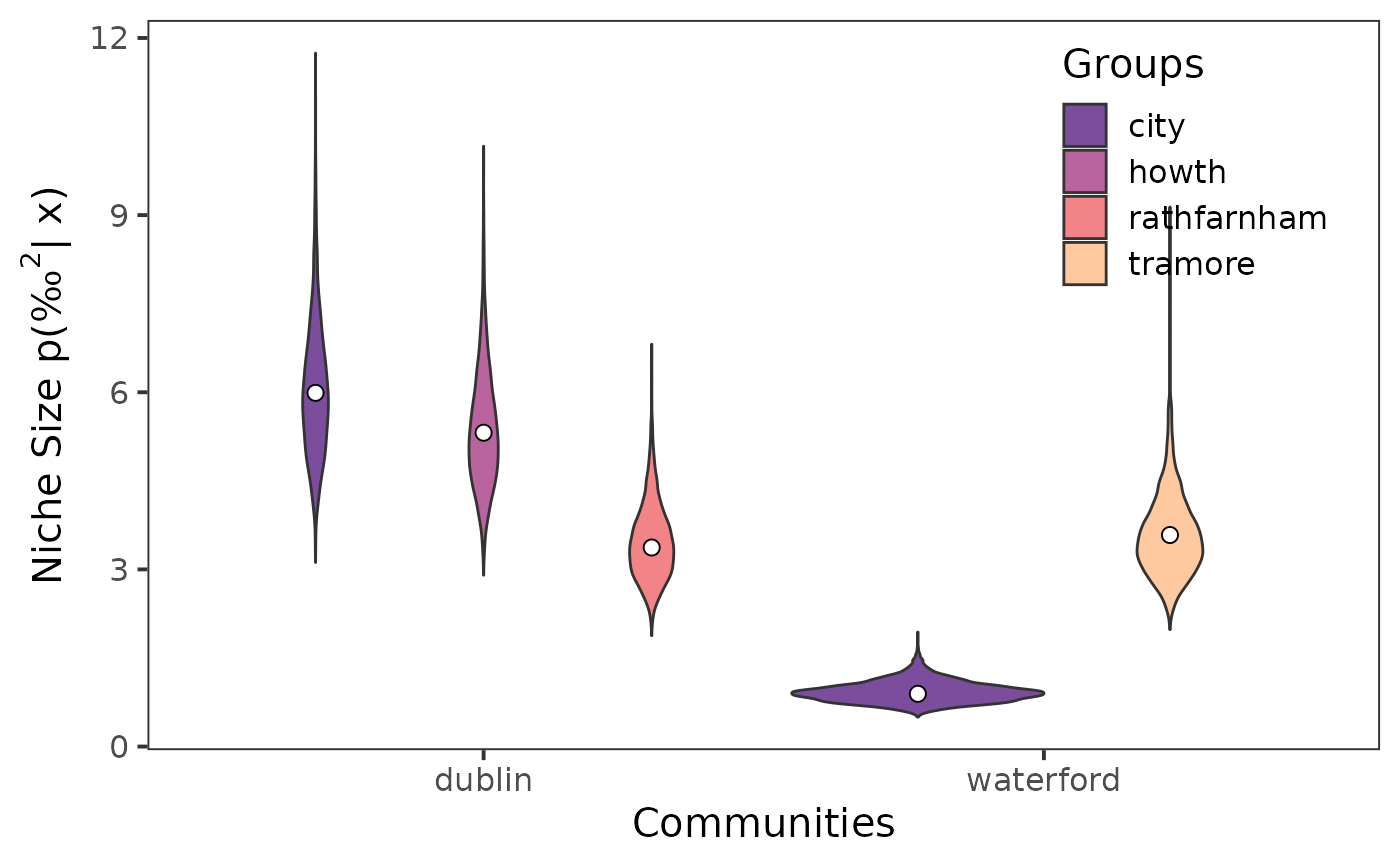
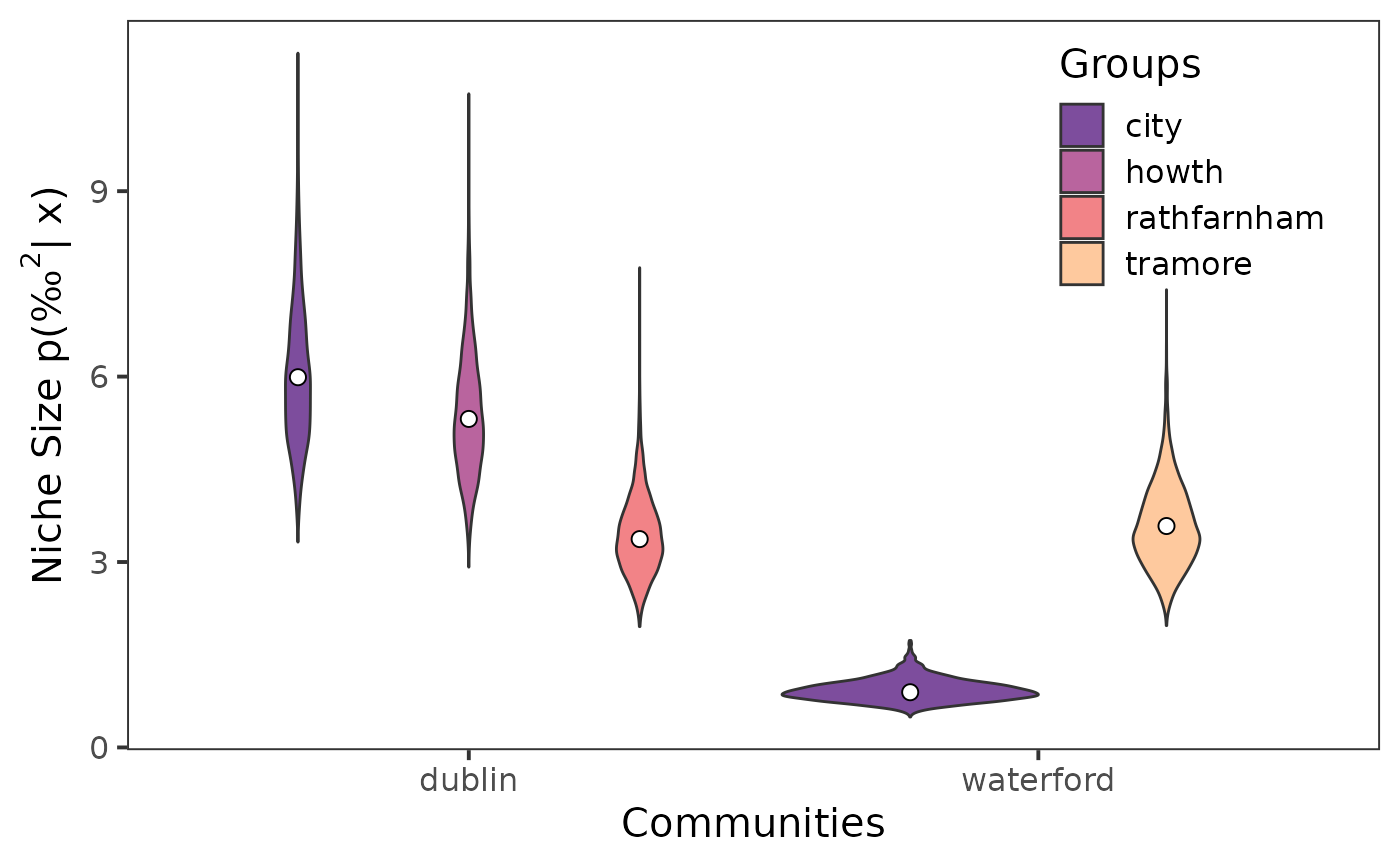
Deploying to gh-pages from @ benjaminhlina/nichetools@ac9a93646acbfcc7f18b946cbb4104046533c340 🚀

diff --git a/articles/using-nichetools-with-the-package-SIBER.html b/articles/using-nichetools-with-the-package-SIBER.html
@@ -61,7 +61,7 @@
                         <h4 data-toc-skip class="author">Benjamin L.
 Hlina</h4>
             
-            <h4 data-toc-skip class="date">Updated: 2024-08-14</h4>
+            <h4 data-toc-skip class="date">Updated: 2024-08-21</h4>
       
       <small class="dont-index">Source: <a href="https://github.com/benjaminhlina/nichetools/blob/main/vignettes/using-nichetools-with-the-package-SIBER.Rmd" class="external-link"><code>vignettes/using-nichetools-with-the-package-SIBER.Rmd</code></a></small>
       <div class="d-none name"><code>using-nichetools-with-the-package-SIBER.Rmd</code></div>
@@ -98,7 +98,7 @@ labels.</p>
 which is great when working with large data sets.</p>
 <p>We will first load the packages that were just mentioned</p>
 <div class="sourceCode" id="cb1"><pre class="downlit sourceCode r">
-<code class="sourceCode R"><span><span class="op">{</span></span>
+<code class="sourceCode R"><span>  <span class="op">{</span></span>
 <span>  <span class="kw"><a href="https://rdrr.io/r/base/library.html" class="external-link">library</a></span><span class="op">(</span><span class="va"><a href="https://easystats.github.io/bayestestR/" class="external-link">bayestestR</a></span><span class="op">)</span></span>
 <span>  <span class="kw"><a href="https://rdrr.io/r/base/library.html" class="external-link">library</a></span><span class="op">(</span><span class="va"><a href="https://dplyr.tidyverse.org" class="external-link">dplyr</a></span><span class="op">)</span></span>
 <span>  <span class="kw"><a href="https://rdrr.io/r/base/library.html" class="external-link">library</a></span><span class="op">(</span><span class="va"><a href="https://ggplot2.tidyverse.org" class="external-link">ggplot2</a></span><span class="op">)</span></span>
@@ -109,7 +109,7 @@ which is great when working with large data sets.</p>
 <span>  <span class="kw"><a href="https://rdrr.io/r/base/library.html" class="external-link">library</a></span><span class="op">(</span><span class="va">SIBER</span><span class="op">)</span></span>
 <span>  <span class="kw"><a href="https://rdrr.io/r/base/library.html" class="external-link">library</a></span><span class="op">(</span><span class="va"><a href="https://tidyr.tidyverse.org" class="external-link">tidyr</a></span><span class="op">)</span></span>
 <span>  <span class="kw"><a href="https://rdrr.io/r/base/library.html" class="external-link">library</a></span><span class="op">(</span><span class="va"><a href="https://sjmgarnier.github.io/viridis/" class="external-link">viridis</a></span><span class="op">)</span></span>
-<span><span class="op">}</span></span></code></pre></div>
+<span>  <span class="op">}</span></span></code></pre></div>
 <p>For the purpose of the vignette we will be using the
 <code>demo.siber.data.2</code> data frame that is available within
 <code>{SIBER}</code>. We will first look at the structure of this data
@@ -122,7 +122,7 @@ functions do not take <code>tibbles</code> or <code>data.tables</code>
 so you will have to convert either to <code>data.frame</code> class
 prior to running functions in <code>{SIBER}</code>.</p>
 <div class="sourceCode" id="cb2"><pre class="downlit sourceCode r">
-<code class="sourceCode R"><span><span class="fu"><a href="https://pillar.r-lib.org/reference/glimpse.html" class="external-link">glimpse</a></span><span class="op">(</span><span class="va">demo.siber.data.2</span><span class="op">)</span></span>
+<code class="sourceCode R"><span>  <span class="fu"><a href="https://pillar.r-lib.org/reference/glimpse.html" class="external-link">glimpse</a></span><span class="op">(</span><span class="va">demo.siber.data.2</span><span class="op">)</span></span>
 <span><span class="co">#&gt; Rows: 150</span></span>
 <span><span class="co">#&gt; Columns: 4</span></span>
 <span><span class="co">#&gt; $ iso1      <span style="color: #949494; font-style: italic;">&lt;dbl&gt;</span> -11.048902, -8.809360, -9.256212, -8.380952, -10.401561, -7.…</span></span>
@@ -476,43 +476,65 @@ and the total area (TA). For plotting niche size we will use
 <p>First I highly recommend reading <a href="https://esajournals.onlinelibrary.wiley.com/doi/abs/10.1890/0012-9658%282007%2988%5B42%3ACSIRPF%5D2.0.CO%3B2" class="external-link">Layman
 et al. 2007</a> to understand the six community metrics that will be
 estimating using a Bayesian framework in this section.</p>
+<p>To create maximum-likelihood estimate of Layman’s community metrics
+we first need to use <code><a href="https://rdrr.io/pkg/SIBER/man/communityMetricsML.html" class="external-link">communityMetricsML()</a></code> from
+<code>{SIBER}</code>.</p>
+<div class="sourceCode" id="cb23"><pre class="downlit sourceCode r">
+<code class="sourceCode R"><span><span class="va">community_ml</span> <span class="op">&lt;-</span> <span class="fu"><a href="https://rdrr.io/pkg/SIBER/man/communityMetricsML.html" class="external-link">communityMetricsML</a></span><span class="op">(</span><span class="va">siber_example</span><span class="op">)</span></span></code></pre></div>
+<p>Then we can extract these estimates using
+<code><a href="../reference/extract_layman.html">extract_layman()</a></code> with the <code>type</code> argument set to
+<code>"ml"</code>. The default for this argument is
+<code>"bay"</code>.</p>
+<div class="sourceCode" id="cb24"><pre class="downlit sourceCode r">
+<code class="sourceCode R"><span><span class="va">layman_ml</span> <span class="op">&lt;-</span> <span class="fu"><a href="../reference/extract_layman.html">extract_layman</a></span><span class="op">(</span><span class="va">community_ml</span>, </span>
+<span>                            type <span class="op">=</span> <span class="st">"ml"</span>, </span>
+<span>                            community_df <span class="op">=</span> <span class="va">c_names</span><span class="op">)</span></span></code></pre></div>
 <p>To create Bayesian estimates of Layman’s community metrics we first
 need to use <code><a href="https://rdrr.io/pkg/SIBER/man/extractPosteriorMeans.html" class="external-link">extractPosteriorMeans()</a></code> from
 <code>{SIBER}</code> to extract posterior estimates of means for each
 community and group.</p>
-<div class="sourceCode" id="cb23"><pre class="downlit sourceCode r">
+<div class="sourceCode" id="cb25"><pre class="downlit sourceCode r">
 <code class="sourceCode R"><span><span class="va">mu_post</span> <span class="op">&lt;-</span> <span class="fu"><a href="https://rdrr.io/pkg/SIBER/man/extractPosteriorMeans.html" class="external-link">extractPosteriorMeans</a></span><span class="op">(</span><span class="va">siber_example</span>, <span class="va">ellipses_posterior</span><span class="op">)</span></span></code></pre></div>
 <p>Next we need to use <code><a href="https://rdrr.io/pkg/SIBER/man/bayesianLayman.html" class="external-link">bayesianLayman()</a></code> from
 <code>{SIBER}</code> and use our extracted posterior means to create
 Bayesian estimates for each community metric.</p>
-<div class="sourceCode" id="cb24"><pre class="downlit sourceCode r">
+<div class="sourceCode" id="cb26"><pre class="downlit sourceCode r">
 <code class="sourceCode R"><span><span class="va">layman_b</span> <span class="op">&lt;-</span> <span class="fu"><a href="https://rdrr.io/pkg/SIBER/man/bayesianLayman.html" class="external-link">bayesianLayman</a></span><span class="op">(</span>mu.post <span class="op">=</span> <span class="va">mu_post</span><span class="op">)</span></span></code></pre></div>
 <p>Once we have created our Bayesian estimates for each community metric
 we can use <code><a href="../reference/extract_layman.html">extract_layman()</a></code> to extract these estimates. The
 function will also create the variable <code>labels</code> which will
 first assign a new name to each community metric and secondly will
 reorder these names based on how these metrics are often viewed.</p>
-<div class="sourceCode" id="cb25"><pre class="downlit sourceCode r">
-<code class="sourceCode R"><span><span class="va">layman_bc</span> <span class="op">&lt;-</span> <span class="fu"><a href="../reference/extract_layman.html">extract_layman</a></span><span class="op">(</span><span class="va">layman_b</span>, community_df <span class="op">=</span> <span class="va">c_names</span><span class="op">)</span></span></code></pre></div>
+<div class="sourceCode" id="cb27"><pre class="downlit sourceCode r">
+<code class="sourceCode R"><span><span class="va">layman_be</span> <span class="op">&lt;-</span> <span class="fu"><a href="../reference/extract_layman.html">extract_layman</a></span><span class="op">(</span><span class="va">layman_b</span>, community_df <span class="op">=</span> <span class="va">c_names</span><span class="op">)</span></span></code></pre></div>
 <p>Prior to creating a point interval plot, we need to create a colour
 palette that will be used to identify each community.</p>
-<div class="sourceCode" id="cb26"><pre class="downlit sourceCode r">
+<div class="sourceCode" id="cb28"><pre class="downlit sourceCode r">
 <code class="sourceCode R"><span><span class="va">viridis_colors</span> <span class="op">&lt;-</span> <span class="fu"><a href="https://sjmgarnier.github.io/viridisLite/reference/viridis.html" class="external-link">viridis</a></span><span class="op">(</span><span class="fl">2</span>, begin <span class="op">=</span> <span class="fl">0.25</span>, end <span class="op">=</span> <span class="fl">0.85</span>,</span>
 <span>                          option <span class="op">=</span> <span class="st">"G"</span>,</span>
 <span>                          alpha <span class="op">=</span> <span class="fl">0.75</span></span>
 <span><span class="op">)</span></span></code></pre></div>
 <p>Lastly, we can visualize the distributions of the posterior estimates
 using <code><a href="http://mjskay.github.io/ggdist/reference/stat_pointinterval.html" class="external-link">stat_pointinterval()</a></code> from {ggdist}.</p>
-<div class="sourceCode" id="cb27"><pre class="downlit sourceCode r">
-<code class="sourceCode R"><span><span class="fu"><a href="https://ggplot2.tidyverse.org/reference/ggplot.html" class="external-link">ggplot</a></span><span class="op">(</span>data <span class="op">=</span> <span class="va">layman_bc</span>, <span class="fu"><a href="https://ggplot2.tidyverse.org/reference/aes.html" class="external-link">aes</a></span><span class="op">(</span>x <span class="op">=</span> <span class="va">labels</span>, </span>
-<span>                             y <span class="op">=</span> <span class="va">post_est</span>, </span>
-<span>                             point_fill <span class="op">=</span> <span class="va">community_name</span><span class="op">)</span><span class="op">)</span> <span class="op">+</span> </span>
+<div class="sourceCode" id="cb29"><pre class="downlit sourceCode r">
+<code class="sourceCode R"><span><span class="fu"><a href="https://ggplot2.tidyverse.org/reference/ggplot.html" class="external-link">ggplot</a></span><span class="op">(</span><span class="op">)</span> <span class="op">+</span> </span>
 <span>  <span class="fu"><a href="http://mjskay.github.io/ggdist/reference/stat_pointinterval.html" class="external-link">stat_pointinterval</a></span><span class="op">(</span></span>
+<span>    data <span class="op">=</span> <span class="va">layman_be</span>, <span class="fu"><a href="https://ggplot2.tidyverse.org/reference/aes.html" class="external-link">aes</a></span><span class="op">(</span>x <span class="op">=</span> <span class="va">labels</span>, </span>
+<span>                          y <span class="op">=</span> <span class="va">post_est</span>, </span>
+<span>                          point_fill <span class="op">=</span> <span class="va">community_name</span><span class="op">)</span>,</span>
 <span>    point_size <span class="op">=</span> <span class="fl">2.5</span>,</span>
 <span>    interval_colour <span class="op">=</span> <span class="st">"grey60"</span>,</span>
 <span>    position <span class="op">=</span> <span class="fu"><a href="https://ggplot2.tidyverse.org/reference/position_dodge.html" class="external-link">position_dodge</a></span><span class="op">(</span><span class="fl">0.4</span><span class="op">)</span>,</span>
 <span>    shape <span class="op">=</span> <span class="fl">21</span></span>
 <span>  <span class="op">)</span> <span class="op">+</span> </span>
+<span>  <span class="fu"><a href="https://ggplot2.tidyverse.org/reference/geom_point.html" class="external-link">geom_point</a></span><span class="op">(</span>data <span class="op">=</span> <span class="va">layman_ml</span>, <span class="fu"><a href="https://ggplot2.tidyverse.org/reference/aes.html" class="external-link">aes</a></span><span class="op">(</span>x <span class="op">=</span> <span class="va">labels</span>, </span>
+<span>                                   y <span class="op">=</span> <span class="va">estimate</span>,</span>
+<span>                                   group <span class="op">=</span> <span class="va">community_name</span><span class="op">)</span>, </span>
+<span>             shape <span class="op">=</span> <span class="fl">21</span>,</span>
+<span>             fill <span class="op">=</span> <span class="st">"white"</span>,</span>
+<span>             <span class="co"># size = 2,</span></span>
+<span>             alpha <span class="op">=</span> <span class="fl">0.5</span>, </span>
+<span>             position <span class="op">=</span> <span class="fu"><a href="https://ggplot2.tidyverse.org/reference/position_dodge.html" class="external-link">position_dodge</a></span><span class="op">(</span><span class="fl">0.4</span><span class="op">)</span>,<span class="op">)</span> <span class="op">+</span> </span>
 <span>  <span class="fu"><a href="https://ggplot2.tidyverse.org/reference/scale_manual.html" class="external-link">scale_fill_manual</a></span><span class="op">(</span>name <span class="op">=</span> <span class="st">"Community"</span>, </span>
 <span>                    aesthetics <span class="op">=</span> <span class="st">"point_fill"</span>,</span>
 <span>                    values <span class="op">=</span> <span class="va">viridis_colors</span><span class="op">)</span> <span class="op">+</span> </span>
@@ -529,7 +551,7 @@ using <code><a href="http://mjskay.github.io/ggdist/reference/stat_pointinterval
 <span>    x <span class="op">=</span> <span class="st">"Community Metrics"</span>,</span>
 <span>    y <span class="op">=</span> <span class="fu"><a href="https://rdrr.io/r/base/expression.html" class="external-link">expression</a></span><span class="op">(</span><span class="fu"><a href="https://rdrr.io/r/base/paste.html" class="external-link">paste</a></span><span class="op">(</span><span class="st">"p("</span>, <span class="st">"‰"</span>, <span class="st">"|X)"</span><span class="op">)</span><span class="op">)</span></span>
 <span>  <span class="op">)</span></span></code></pre></div>
-<p><img src="using-nichetools-with-the-package-SIBER_files/figure-html/unnamed-chunk-28-1.png" width="100%"></p>
+<p><img src="using-nichetools-with-the-package-SIBER_files/figure-html/unnamed-chunk-30-1.png" width="100%"></p>
 </div>
   </main><aside class="col-md-3"><nav id="toc" aria-label="Table of contents"><h2>On this page</h2>
     </nav></aside>

diff --git a/reference/extract_layman.html b/reference/extract_layman.html
@@ -67,6 +67,7 @@ more about the following metrics please review
     <h2 id="ref-usage">Usage<a class="anchor" aria-label="anchor" href="#ref-usage"></a></h2>
     <div class="sourceCode"><pre class="sourceCode r"><code><span><span class="fu">extract_layman</span><span class="op">(</span></span>
 <span>  <span class="va">data</span>,</span>
+<span>  type <span class="op">=</span> <span class="cn">NULL</span>,</span>
 <span>  community_df <span class="op">=</span> <span class="cn">NULL</span>,</span>
 <span>  data_format <span class="op">=</span> <span class="cn">NULL</span>,</span>
 <span>  isotope_x <span class="op">=</span> <span class="cn">NULL</span>,</span>
@@ -83,6 +84,12 @@ more about the following metrics please review
 <dl><dt id="arg-data">data<a class="anchor" aria-label="anchor" href="#arg-data"></a></dt>
 <dd><p>a <code>list</code> created by the function <code><a href="https://rdrr.io/pkg/SIBER/man/bayesianLayman.html" class="external-link">bayesianLayman()</a></code> from the package
 <a href="https://CRAN.R-project.org/package=SIBER" class="external-link">SIBER</a>.</p></dd>
+
+
+<dt id="arg-type">type<a class="anchor" aria-label="anchor" href="#arg-type"></a></dt>
+<dd><p>a <code>character</code> that is either <code>"bay"</code> or <code>"ml"</code> which indicates
+whether the community metrics to be extracted are from a Bayesian analysis or
+a maximum-likelihood.</p></dd>
 
 
 <dt id="arg-community-df">community_df<a class="anchor" aria-label="anchor" href="#arg-community-df"></a></dt>

diff --git a/reference/niche_ellipse.html b/reference/niche_ellipse.html
@@ -133,7 +133,7 @@ and <code><a href="extract_sigma.html">extract_sigma()</a></code></p></div>
     <h2 id="ref-examples">Examples<a class="anchor" aria-label="anchor" href="#ref-examples"></a></h2>
     <div class="sourceCode"><pre class="sourceCode r"><code><span class="r-in"><span><span class="fu">niche_ellipse</span><span class="op">(</span>dat_mu <span class="op">=</span> <span class="va">mu_est_long</span>,</span></span>
 <span class="r-in"><span>              dat_sigma <span class="op">=</span> <span class="va">sigma_est_wide</span><span class="op">)</span></span></span>
-<span class="r-msg co"><span class="r-pr">#&gt;</span> → Total time processing was 0.06 secs</span>
+<span class="r-msg co"><span class="r-pr">#&gt;</span> → Total time processing was 0.07 secs</span>
 <span class="r-out co"><span class="r-pr">#&gt;</span> <span style="color: #949494;"># A tibble: 4,000 × 4</span></span>
 <span class="r-out co"><span class="r-pr">#&gt;</span>    sample_name sample_number  d13c  d15n</span>
 <span class="r-out co"><span class="r-pr">#&gt;</span>    <span style="color: #949494; font-style: italic;">&lt;chr&gt;</span>               <span style="color: #949494; font-style: italic;">&lt;dbl&gt;</span> <span style="color: #949494; font-style: italic;">&lt;dbl&gt;</span> <span style="color: #949494; font-style: italic;">&lt;dbl&gt;</span></span>

diff --git a/articles/using-nichetools-with-the-package-nicheROVER.html b/articles/using-nichetools-with-the-package-nicheROVER.html
@@ -61,7 +61,7 @@
                         <h4 data-toc-skip class="author">Benjamin L.
 Hlina</h4>
             
-            <h4 data-toc-skip class="date">Updated: 2024-08-14</h4>
+            <h4 data-toc-skip class="date">Updated: 2024-08-21</h4>
       
       <small class="dont-index">Source: <a href="https://github.com/benjaminhlina/nichetools/blob/main/vignettes/using-nichetools-with-the-package-nicheROVER.Rmd" class="external-link"><code>vignettes/using-nichetools-with-the-package-nicheROVER.Rmd</code></a></small>
       <div class="d-none name"><code>using-nichetools-with-the-package-nicheROVER.Rmd</code></div>
